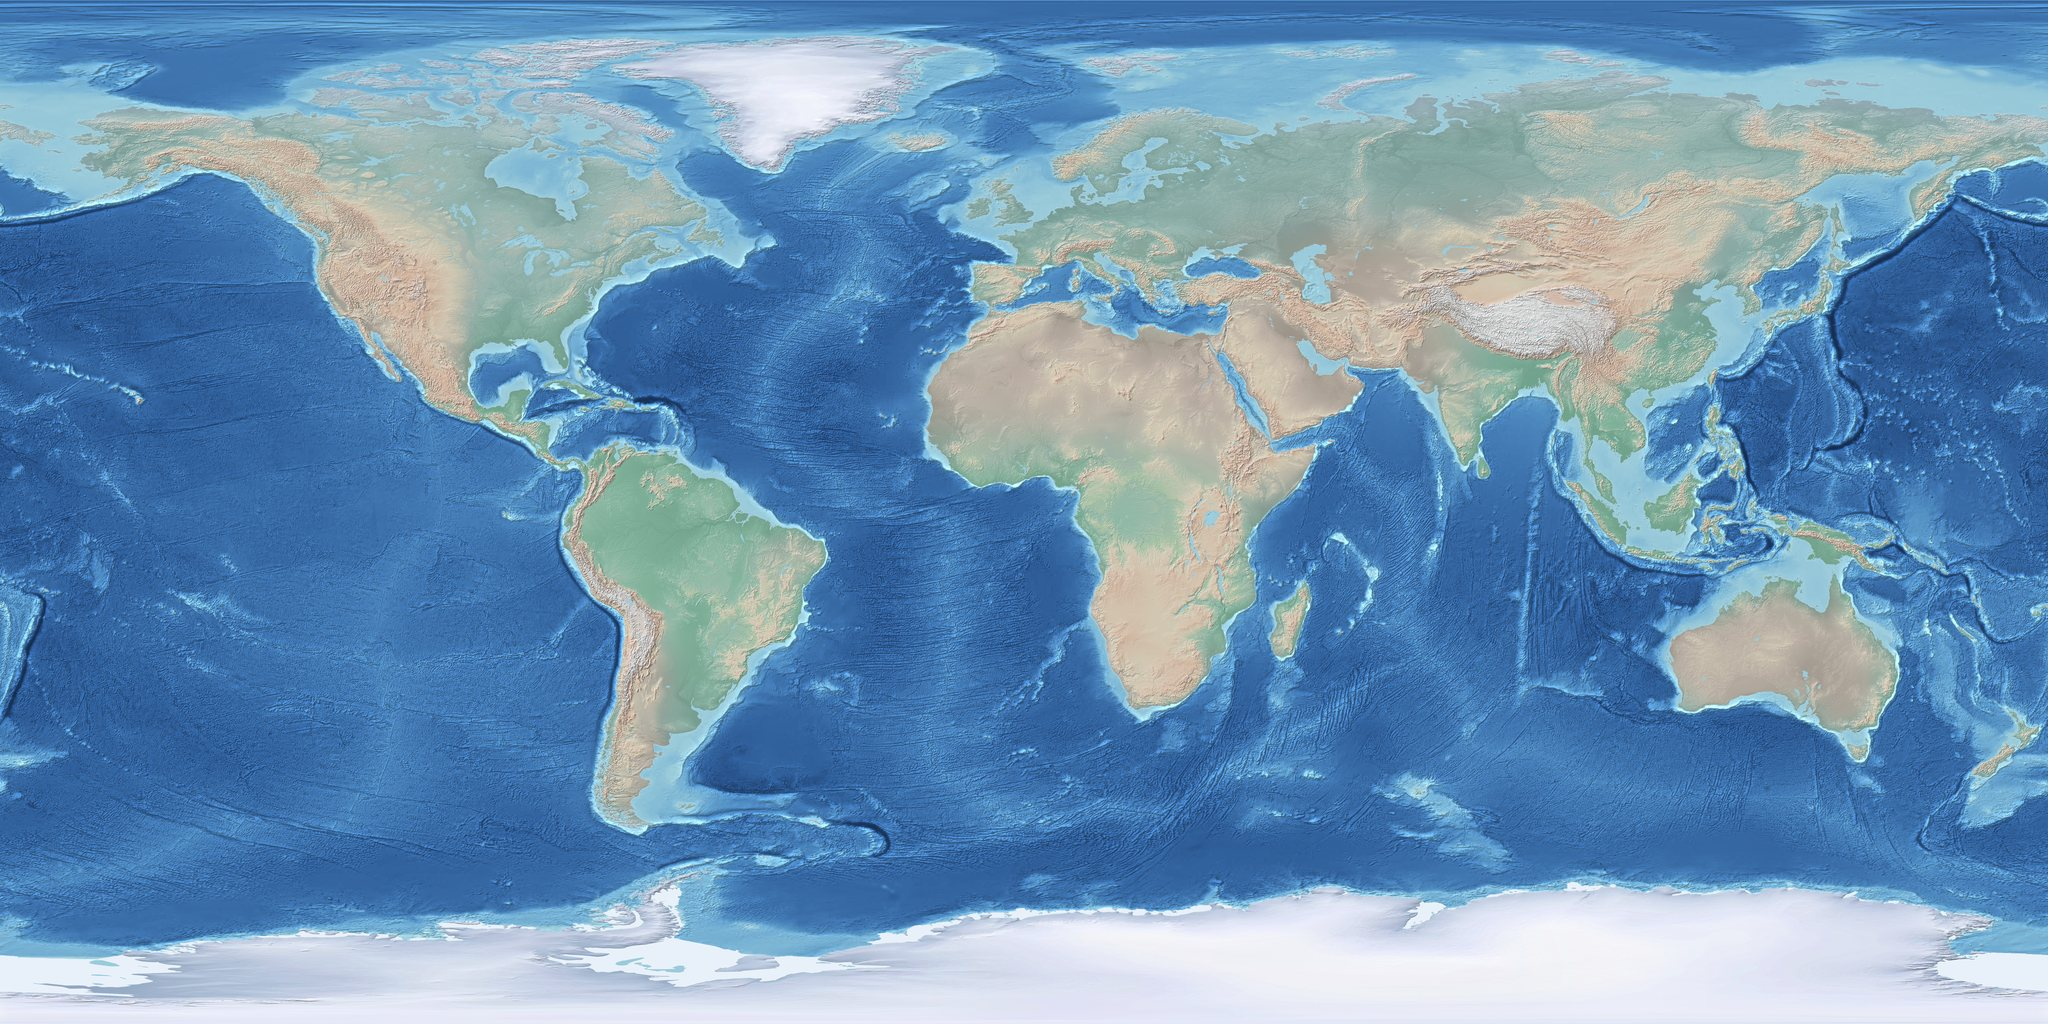
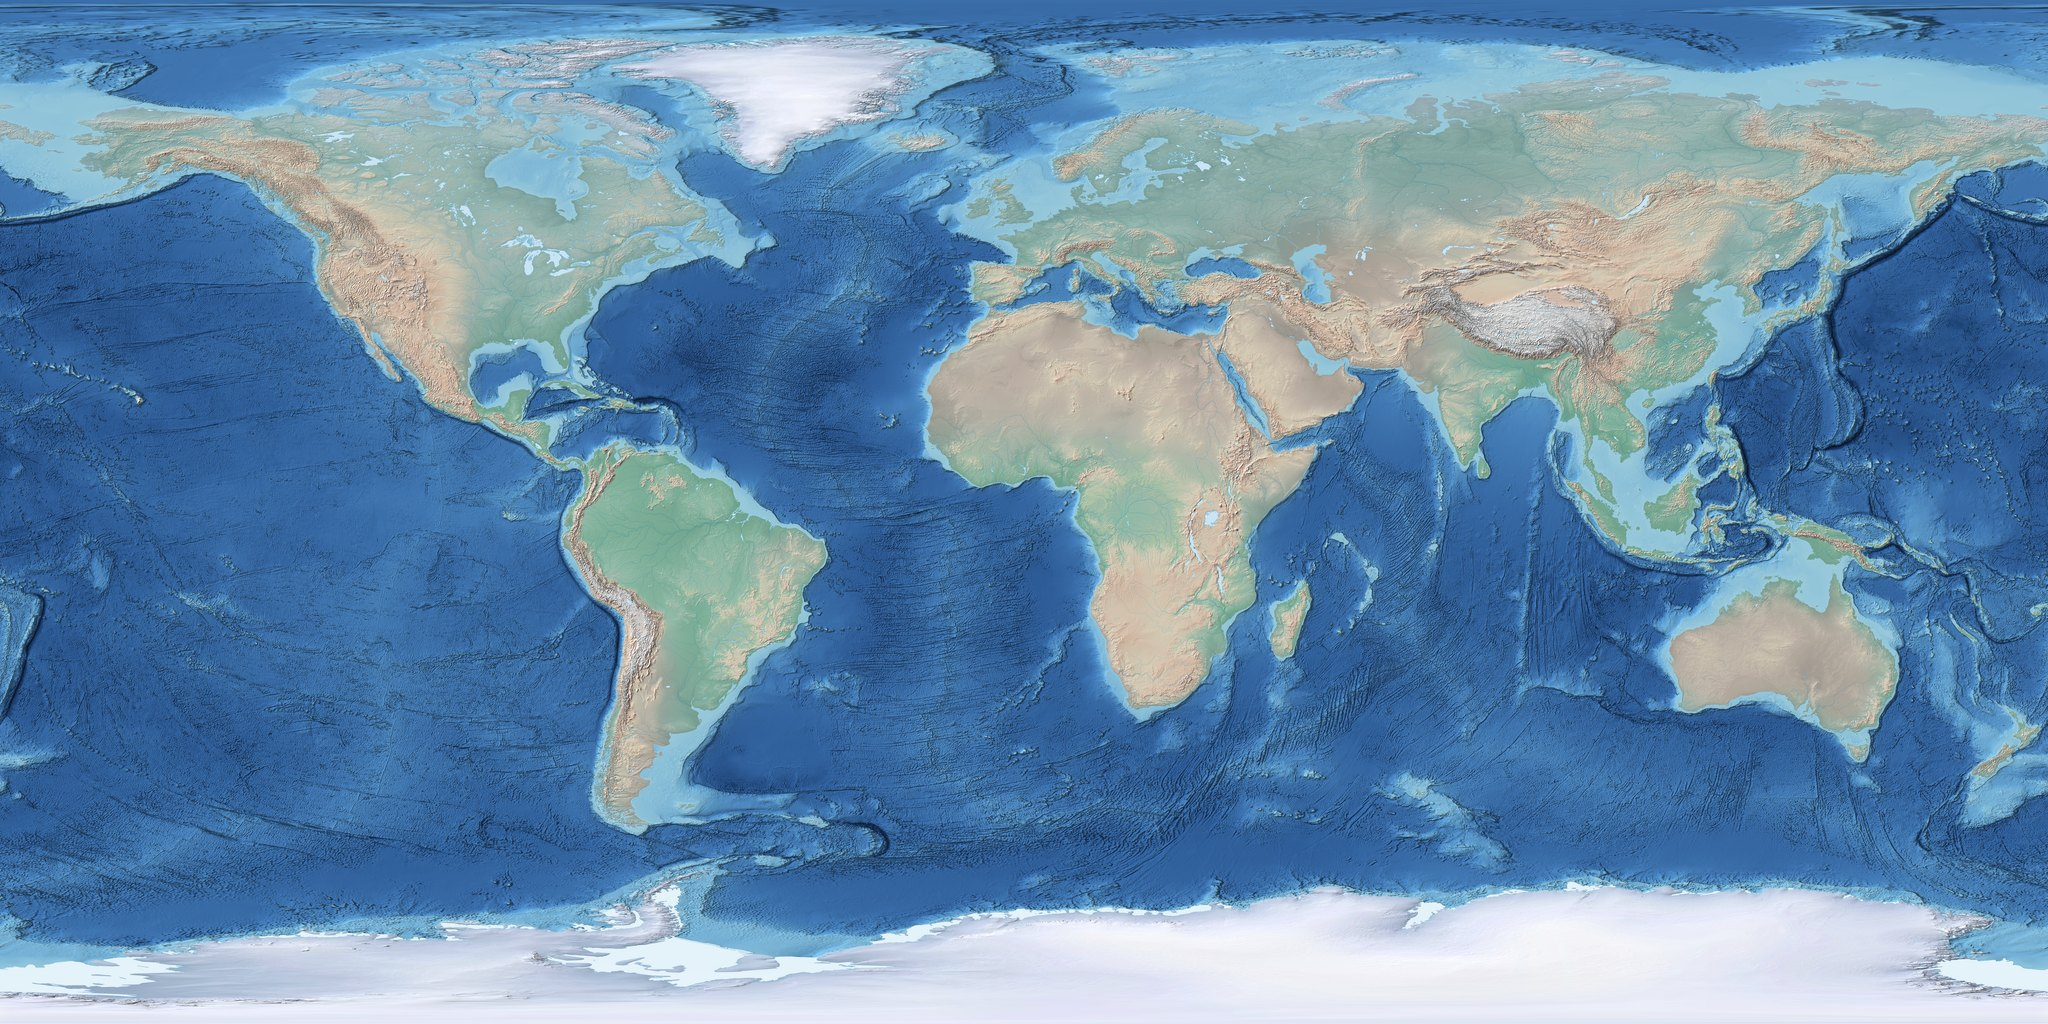
Sharper globe with elevation relief: 21k Natural Earth + ETOPO hill shading, detail tiles loaded for the zoomed-in area
Claude-Session: https://claude.ai/code/session_01TWkHodgwka5bRrv61NQpeQ

diff --git a/app/www/index.html b/app/www/index.html
@@ -1290,7 +1290,7 @@ const terrain = (() => {
   const VS = "#version 300 es\nin vec2 p;void main(){gl_Position=vec4(p,0.0,1.0);}";
   const FS = `#version 300 es
 precision highp float;
-uniform sampler2D tex; uniform float hgt; uniform vec2 ctr; uniform float rad; uniform vec2 rot; uniform float dark;
+uniform sampler2D tex; uniform sampler2D det; uniform vec4 drect; uniform float hgt; uniform vec2 ctr; uniform float rad; uniform vec2 rot; uniform float dark;
 out vec4 o;
 const float PI = 3.141592653589793;
 void main(){
@@ -1307,23 +1307,32 @@ void main(){
   vec2 gx = dFdx(uv), gy = dFdy(uv);
   gx.x -= floor(gx.x + 0.5); gy.x -= floor(gy.x + 0.5);
   vec3 c = textureGrad(tex, vec2(fract(uv.x), uv.y), gx, gy).rgb;
+  /* sharper detail block (a 2x2 set of 16k tiles around the view), blended in where it covers */
+  if (drect.z > 0.0){
+    vec2 du = vec2(fract(uv.x - drect.x), (uv.y - drect.y)) / drect.zw;
+    if (du.x < 1.0 && du.y >= 0.0 && du.y <= 1.0){
+      vec3 dc = textureGrad(det, du, gx / drect.zw, gy / drect.zw).rgb;
+      vec2 e = min(du, 1.0 - du);
+      c = mix(c, dc, smoothstep(0.0, 0.04, min(e.x, e.y)));
+    }
+  }
   c *= mix(0.72, 1.0, smoothstep(0.0, 0.6, X));
   if (dark > 0.5) c = pow(c, vec3(1.6)) * vec3(0.58, 0.63, 0.72);
   float a = clamp((1.0 - d) * rad + 0.5, 0.0, 1.0);
   o = vec4(c * a, a);
 }`;
   function sh(type, src){ const s = gl.createShader(type); gl.shaderSource(s, src); gl.compileShader(s); if (!gl.getShaderParameter(s, gl.COMPILE_STATUS)) throw new Error(gl.getShaderInfoLog(s)); return s; }
-  let prog, U = {}, tex, ready = false, dead = false, bigState = 0;
+  let prog, U = {}, tex, dtex, ready = false, dead = false, bigState = 0;
   try {
     prog = gl.createProgram();
     gl.attachShader(prog, sh(gl.VERTEX_SHADER, VS)); gl.attachShader(prog, sh(gl.FRAGMENT_SHADER, FS));
     gl.bindAttribLocation(prog, 0, "p"); gl.linkProgram(prog);
     if (!gl.getProgramParameter(prog, gl.LINK_STATUS)) throw new Error(gl.getProgramInfoLog(prog));
-    for (const n of ["tex", "hgt", "ctr", "rad", "rot", "dark"]) U[n] = gl.getUniformLocation(prog, n);
+    for (const n of ["tex", "det", "drect", "hgt", "ctr", "rad", "rot", "dark"]) U[n] = gl.getUniformLocation(prog, n);
     const buf = gl.createBuffer(); gl.bindBuffer(gl.ARRAY_BUFFER, buf);
     gl.bufferData(gl.ARRAY_BUFFER, new Float32Array([-1, -1, 3, -1, -1, 3]), gl.STATIC_DRAW);
     gl.enableVertexAttribArray(0); gl.vertexAttribPointer(0, 2, gl.FLOAT, false, 0, 0);
-    tex = gl.createTexture();
+    tex = gl.createTexture(); dtex = gl.createTexture();
   } catch (e) { return off; }
   const aniso = gl.getExtension("EXT_texture_filter_anisotropic");
   function upload(img){
@@ -1342,10 +1351,48 @@ void main(){
   const load = (src) => new Promise((res, rej) => { const im = new Image(); im.decoding = "async"; im.onload = () => res(im); im.onerror = rej; im.src = src; });
   const canBig = gl.getParameter(gl.MAX_TEXTURE_SIZE) >= 4096;
   load("earth-relief-2k.jpg").then((im) => { upload(im); bigState = Math.max(bigState, 1); api.wantBig(); }).catch(() => {});
+  /* detail tiles: the world at 16384 x 8192 in 8 x 4 tiles of 2048 px; four at a time cover 90 x 90 degrees */
+  const TILES = "https://noahbush42276-ship-it.github.io/dateline-atlas/relief-tiles/", TS = 2048;
+  let dKey = "", dWant = "", dRect = [0, 0, 0, 0], dBusy = false;
+  const tileImg = new Map();
+  const tile = (x, y) => {
+    const n = x + "_" + y;
+    if (!tileImg.has(n)){
+      if (tileImg.size > 12) tileImg.delete(tileImg.keys().next().value);
+      tileImg.set(n, new Promise((res, rej) => { const im = new Image(); im.crossOrigin = "anonymous"; im.decoding = "async"; im.onload = () => res(im); im.onerror = () => { tileImg.delete(n); rej(); }; im.src = TILES + n + ".jpg"; }));
+    }
+    return tileImg.get(n);
+  };
+  function wantDetail(){
+    if (!canBig || dead || !ready) return;
+    if (proj.scale() * DPR * 2 * Math.PI < 5200) return;      /* the 4k map still holds up */
+    const lon = -rot[0], lat = -rot[1];
+    const x0 = ((Math.floor((((lon + 180) % 360) + 360) % 360 / 45 - 0.5)) + 8) % 8;
+    const y0 = Math.max(0, Math.min(2, Math.floor((90 - lat) / 45 - 0.5)));
+    const key = x0 + "," + y0;
+    if (key === dKey || key === dWant || dBusy) return;
+    dWant = key; dBusy = true;
+    const xs = [x0, (x0 + 1) % 8], ys = [y0, y0 + 1];
+    Promise.all([tile(xs[0], ys[0]), tile(xs[1], ys[0]), tile(xs[0], ys[1]), tile(xs[1], ys[1])]).then((ims) => {
+      if (dead) return;
+      gl.bindTexture(gl.TEXTURE_2D, dtex);
+      gl.pixelStorei(gl.UNPACK_FLIP_Y_WEBGL, false);
+      if (!dKey) gl.texImage2D(gl.TEXTURE_2D, 0, gl.RGB, TS * 2, TS * 2, 0, gl.RGB, gl.UNSIGNED_BYTE, null);
+      ims.forEach((im, i) => gl.texSubImage2D(gl.TEXTURE_2D, 0, (i % 2) * TS, (i >> 1) * TS, gl.RGB, gl.UNSIGNED_BYTE, im));
+      gl.generateMipmap(gl.TEXTURE_2D);
+      gl.texParameteri(gl.TEXTURE_2D, gl.TEXTURE_MIN_FILTER, gl.LINEAR_MIPMAP_LINEAR);
+      gl.texParameteri(gl.TEXTURE_2D, gl.TEXTURE_MAG_FILTER, gl.LINEAR);
+      gl.texParameteri(gl.TEXTURE_2D, gl.TEXTURE_WRAP_S, gl.CLAMP_TO_EDGE);
+      gl.texParameteri(gl.TEXTURE_2D, gl.TEXTURE_WRAP_T, gl.CLAMP_TO_EDGE);
+      if (aniso) gl.texParameterf(gl.TEXTURE_2D, aniso.TEXTURE_MAX_ANISOTROPY_EXT, Math.min(8, gl.getParameter(aniso.MAX_TEXTURE_MAX_ANISOTROPY_EXT)));
+      dKey = key; dRect = [x0 / 8, y0 / 4, 0.25, 0.5]; needs = true;
+    }).catch(() => {}).finally(() => { dBusy = false; dWant = ""; });
+  }
   cv.addEventListener("webglcontextlost", (e) => { e.preventDefault(); dead = true; ready = false; needs = true; });
   /* the 4k texture (2 MB) loads only once the globe is big enough on screen to use it */
   const api = {
     ready: () => ready && !dead,
+    sharp: () => !!dKey && !dead,
     resize(){ cv.width = Math.round(W * DPR); cv.height = Math.round(H * DPR); },
     wantBig(){
       if (!canBig || bigState !== 1 || dead) return;
@@ -1358,6 +1405,7 @@ void main(){
       gl.viewport(0, 0, cv.width, cv.height);
       gl.clearColor(0, 0, 0, 0); gl.clear(gl.COLOR_BUFFER_BIT);
       if (!ready || !(alpha > 0)) return;
+      wantDetail();
       const [tx, ty] = proj.translate();
       gl.useProgram(prog);
       gl.uniform1i(U.tex, 0); gl.activeTexture(gl.TEXTURE0); gl.bindTexture(gl.TEXTURE_2D, tex);
@@ -1366,6 +1414,9 @@ void main(){
       gl.uniform1f(U.rad, proj.scale() * DPR);
       gl.uniform2f(U.rot, rot[0] * Math.PI / 180, rot[1] * Math.PI / 180);
       gl.uniform1f(U.dark, C.dark ? 1 : 0);
+      gl.uniform1i(U.det, 1); gl.activeTexture(gl.TEXTURE1); gl.bindTexture(gl.TEXTURE_2D, dtex);
+      gl.uniform4f(U.drect, dKey ? dRect[0] : 0, dRect[1], dKey ? dRect[2] : 0, dRect[3]);
+      gl.activeTexture(gl.TEXTURE0);
       gl.drawArrays(gl.TRIANGLES, 0, 3);
     }
   };
@@ -1462,7 +1513,7 @@ function draw(ts){
   g.addColorStop(0, C.halo); g.addColorStop(1, "rgba(0,0,0,0)");
   ctx.fillStyle = g; ctx.beginPath(); ctx.arc(cx, cy, r * 1.14, 0, 2 * Math.PI); ctx.fill();
   /* relief texture while zoomed out, cross-fading to the crisp vector map once the texture would turn soft */
-  const tA = terrain.ready() ? Math.max(0, Math.min(1, (11.5 - k) / 3.8)) : 0;
+  const tA = terrain.ready() ? (terrain.sharp() ? Math.max(0, Math.min(1, (30 - k) / 8)) : Math.max(0, Math.min(1, (11.5 - k) / 3.8))) : 0;
   terrain.render(tA);
   const sf = selectedFeature();
   if (tA < 1){
@@ -1793,7 +1844,7 @@ function methodBlock(){
       h("dt", {text:"Loaded language (0–3)"}), h("dd", {text:"The outlet's own wording in its headline, not quotes it attributes to others. 0 is neutral wire language; 3 is an openly partisan label."}),
       h("dt", {text:"Ownership"}), h("dd", {text:"State: run or funded by a government. Public: public-service or nonprofit broadcaster. Commercial: privately owned. Independent: reader-funded or working in exile."}),
       h("dt", {text:"Translation and limits"}), h("dd", {text:"Stories are found in the GDELT Project's open index of world news coverage. An AI model (Gemma, running on the publisher's computer) groups the reports, translates the headlines and makes these assessments. The outlet, country and owner counts behind the reliability score are counted by code. These are judgments, not verdicts, and they can be wrong; each report links to the original. National and international stories drop off 30 days after the event date, company and AI news after 14, local and regional stories after 7."}),
-      h("dt", {text:"Map data"}), h("dd", {text:"Land relief and vegetation tints from Natural Earth's shaded relief. Ocean depth from NOAA's ETOPO global relief model, with seafloor ridges and trenches from NOAA ETOPO1. Coastlines, lakes and borders from Natural Earth 1:50m."})
+      h("dt", {text:"Map data"}), h("dd", {text:"Land relief and vegetation tints from Natural Earth's high-resolution shaded relief, with hill shading from NOAA's ETOPO 2022 elevation model (heights exaggerated so ranges stand out). Ocean depth from NOAA's ETOPO global relief model, with seafloor ridges and trenches from NOAA ETOPO1. Coastlines, lakes and borders from Natural Earth 1:50m."})
     ));
 }
 function renderDetail(e){

diff --git a/index.html b/index.html
@@ -758,7 +758,7 @@ const terrain = (() => {
   const VS = "#version 300 es\nin vec2 p;void main(){gl_Position=vec4(p,0.0,1.0);}";
   const FS = `#version 300 es
 precision highp float;
-uniform sampler2D tex; uniform float hgt; uniform vec2 ctr; uniform float rad; uniform vec2 rot; uniform float dark;
+uniform sampler2D tex; uniform sampler2D det; uniform vec4 drect; uniform float hgt; uniform vec2 ctr; uniform float rad; uniform vec2 rot; uniform float dark;
 out vec4 o;
 const float PI = 3.141592653589793;
 void main(){
@@ -775,23 +775,32 @@ void main(){
   vec2 gx = dFdx(uv), gy = dFdy(uv);
   gx.x -= floor(gx.x + 0.5); gy.x -= floor(gy.x + 0.5);
   vec3 c = textureGrad(tex, vec2(fract(uv.x), uv.y), gx, gy).rgb;
+  /* sharper detail block (a 2x2 set of 16k tiles around the view), blended in where it covers */
+  if (drect.z > 0.0){
+    vec2 du = vec2(fract(uv.x - drect.x), (uv.y - drect.y)) / drect.zw;
+    if (du.x < 1.0 && du.y >= 0.0 && du.y <= 1.0){
+      vec3 dc = textureGrad(det, du, gx / drect.zw, gy / drect.zw).rgb;
+      vec2 e = min(du, 1.0 - du);
+      c = mix(c, dc, smoothstep(0.0, 0.04, min(e.x, e.y)));
+    }
+  }
   c *= mix(0.72, 1.0, smoothstep(0.0, 0.6, X));
   if (dark > 0.5) c = pow(c, vec3(1.6)) * vec3(0.58, 0.63, 0.72);
   float a = clamp((1.0 - d) * rad + 0.5, 0.0, 1.0);
   o = vec4(c * a, a);
 }`;
   function sh(type, src){ const s = gl.createShader(type); gl.shaderSource(s, src); gl.compileShader(s); if (!gl.getShaderParameter(s, gl.COMPILE_STATUS)) throw new Error(gl.getShaderInfoLog(s)); return s; }
-  let prog, U = {}, tex, ready = false, dead = false, bigState = 0;
+  let prog, U = {}, tex, dtex, ready = false, dead = false, bigState = 0;
   try {
     prog = gl.createProgram();
     gl.attachShader(prog, sh(gl.VERTEX_SHADER, VS)); gl.attachShader(prog, sh(gl.FRAGMENT_SHADER, FS));
     gl.bindAttribLocation(prog, 0, "p"); gl.linkProgram(prog);
     if (!gl.getProgramParameter(prog, gl.LINK_STATUS)) throw new Error(gl.getProgramInfoLog(prog));
-    for (const n of ["tex", "hgt", "ctr", "rad", "rot", "dark"]) U[n] = gl.getUniformLocation(prog, n);
+    for (const n of ["tex", "det", "drect", "hgt", "ctr", "rad", "rot", "dark"]) U[n] = gl.getUniformLocation(prog, n);
     const buf = gl.createBuffer(); gl.bindBuffer(gl.ARRAY_BUFFER, buf);
     gl.bufferData(gl.ARRAY_BUFFER, new Float32Array([-1, -1, 3, -1, -1, 3]), gl.STATIC_DRAW);
     gl.enableVertexAttribArray(0); gl.vertexAttribPointer(0, 2, gl.FLOAT, false, 0, 0);
-    tex = gl.createTexture();
+    tex = gl.createTexture(); dtex = gl.createTexture();
   } catch (e) { return off; }
   const aniso = gl.getExtension("EXT_texture_filter_anisotropic");
   function upload(img){
@@ -810,10 +819,48 @@ void main(){
   const load = (src) => new Promise((res, rej) => { const im = new Image(); im.decoding = "async"; im.onload = () => res(im); im.onerror = rej; im.src = src; });
   const canBig = gl.getParameter(gl.MAX_TEXTURE_SIZE) >= 4096;
   load("earth-relief-2k.jpg").then((im) => { upload(im); bigState = Math.max(bigState, 1); api.wantBig(); }).catch(() => {});
+  /* detail tiles: the world at 16384 x 8192 in 8 x 4 tiles of 2048 px; four at a time cover 90 x 90 degrees */
+  const TILES = "relief-tiles/", TS = 2048;
+  let dKey = "", dWant = "", dRect = [0, 0, 0, 0], dBusy = false;
+  const tileImg = new Map();
+  const tile = (x, y) => {
+    const n = x + "_" + y;
+    if (!tileImg.has(n)){
+      if (tileImg.size > 12) tileImg.delete(tileImg.keys().next().value);
+      tileImg.set(n, new Promise((res, rej) => { const im = new Image(); im.crossOrigin = "anonymous"; im.decoding = "async"; im.onload = () => res(im); im.onerror = () => { tileImg.delete(n); rej(); }; im.src = TILES + n + ".jpg"; }));
+    }
+    return tileImg.get(n);
+  };
+  function wantDetail(){
+    if (!canBig || dead || !ready) return;
+    if (proj.scale() * DPR * 2 * Math.PI < 5200) return;      /* the 4k map still holds up */
+    const lon = -rot[0], lat = -rot[1];
+    const x0 = ((Math.floor((((lon + 180) % 360) + 360) % 360 / 45 - 0.5)) + 8) % 8;
+    const y0 = Math.max(0, Math.min(2, Math.floor((90 - lat) / 45 - 0.5)));
+    const key = x0 + "," + y0;
+    if (key === dKey || key === dWant || dBusy) return;
+    dWant = key; dBusy = true;
+    const xs = [x0, (x0 + 1) % 8], ys = [y0, y0 + 1];
+    Promise.all([tile(xs[0], ys[0]), tile(xs[1], ys[0]), tile(xs[0], ys[1]), tile(xs[1], ys[1])]).then((ims) => {
+      if (dead) return;
+      gl.bindTexture(gl.TEXTURE_2D, dtex);
+      gl.pixelStorei(gl.UNPACK_FLIP_Y_WEBGL, false);
+      if (!dKey) gl.texImage2D(gl.TEXTURE_2D, 0, gl.RGB, TS * 2, TS * 2, 0, gl.RGB, gl.UNSIGNED_BYTE, null);
+      ims.forEach((im, i) => gl.texSubImage2D(gl.TEXTURE_2D, 0, (i % 2) * TS, (i >> 1) * TS, gl.RGB, gl.UNSIGNED_BYTE, im));
+      gl.generateMipmap(gl.TEXTURE_2D);
+      gl.texParameteri(gl.TEXTURE_2D, gl.TEXTURE_MIN_FILTER, gl.LINEAR_MIPMAP_LINEAR);
+      gl.texParameteri(gl.TEXTURE_2D, gl.TEXTURE_MAG_FILTER, gl.LINEAR);
+      gl.texParameteri(gl.TEXTURE_2D, gl.TEXTURE_WRAP_S, gl.CLAMP_TO_EDGE);
+      gl.texParameteri(gl.TEXTURE_2D, gl.TEXTURE_WRAP_T, gl.CLAMP_TO_EDGE);
+      if (aniso) gl.texParameterf(gl.TEXTURE_2D, aniso.TEXTURE_MAX_ANISOTROPY_EXT, Math.min(8, gl.getParameter(aniso.MAX_TEXTURE_MAX_ANISOTROPY_EXT)));
+      dKey = key; dRect = [x0 / 8, y0 / 4, 0.25, 0.5]; needs = true;
+    }).catch(() => {}).finally(() => { dBusy = false; dWant = ""; });
+  }
   cv.addEventListener("webglcontextlost", (e) => { e.preventDefault(); dead = true; ready = false; needs = true; });
   /* the 4k texture (2 MB) loads only once the globe is big enough on screen to use it */
   const api = {
     ready: () => ready && !dead,
+    sharp: () => !!dKey && !dead,
     resize(){ cv.width = Math.round(W * DPR); cv.height = Math.round(H * DPR); },
     wantBig(){
       if (!canBig || bigState !== 1 || dead) return;
@@ -826,6 +873,7 @@ void main(){
       gl.viewport(0, 0, cv.width, cv.height);
       gl.clearColor(0, 0, 0, 0); gl.clear(gl.COLOR_BUFFER_BIT);
       if (!ready || !(alpha > 0)) return;
+      wantDetail();
       const [tx, ty] = proj.translate();
       gl.useProgram(prog);
       gl.uniform1i(U.tex, 0); gl.activeTexture(gl.TEXTURE0); gl.bindTexture(gl.TEXTURE_2D, tex);
@@ -834,6 +882,9 @@ void main(){
       gl.uniform1f(U.rad, proj.scale() * DPR);
       gl.uniform2f(U.rot, rot[0] * Math.PI / 180, rot[1] * Math.PI / 180);
       gl.uniform1f(U.dark, C.dark ? 1 : 0);
+      gl.uniform1i(U.det, 1); gl.activeTexture(gl.TEXTURE1); gl.bindTexture(gl.TEXTURE_2D, dtex);
+      gl.uniform4f(U.drect, dKey ? dRect[0] : 0, dRect[1], dKey ? dRect[2] : 0, dRect[3]);
+      gl.activeTexture(gl.TEXTURE0);
       gl.drawArrays(gl.TRIANGLES, 0, 3);
     }
   };
@@ -853,7 +904,7 @@ function draw(ts){
   g.addColorStop(0, C.halo); g.addColorStop(1, "rgba(0,0,0,0)");
   ctx.fillStyle = g; ctx.beginPath(); ctx.arc(cx, cy, r * 1.14, 0, 2 * Math.PI); ctx.fill();
   /* relief texture while zoomed out, cross-fading to the crisp vector map once the texture would turn soft */
-  const tA = terrain.ready() ? Math.max(0, Math.min(1, (11.5 - k) / 3.8)) : 0;
+  const tA = terrain.ready() ? (terrain.sharp() ? Math.max(0, Math.min(1, (30 - k) / 8)) : Math.max(0, Math.min(1, (11.5 - k) / 3.8))) : 0;
   terrain.render(tA);
   const sf = selectedFeature();
   if (tA < 1){
@@ -1167,7 +1218,7 @@ function methodBlock(){
       h("dt", {text:"Loaded language (0–3)"}), h("dd", {text:"The outlet's own wording in its headline, not quotes it attributes to others. 0 is neutral wire language; 3 is an openly partisan label."}),
       h("dt", {text:"Ownership"}), h("dd", {text:"State: run or funded by a government. Public: public-service or nonprofit broadcaster. Commercial: privately owned. Independent: reader-funded or working in exile."}),
       h("dt", {text:"Translation and limits"}), h("dd", {text:"An AI model translates the headlines and makes these assessments: Claude, or EMA (Gemma, a local model) when the sweep runs on Noah's PC; Sources says which ran the latest sweep. The outlet, country and owner counts behind the reliability score are counted by code. These are judgments, not verdicts, and they can be wrong; each report links to the original. National and international stories drop off 30 days after the event date, company and AI news after 14, local and regional stories after 7."}),
-      h("dt", {text:"Map data"}), h("dd", {text:"Land relief and vegetation tints from Natural Earth's shaded relief. Ocean depth from NOAA's ETOPO global relief model, with seafloor ridges and trenches from NOAA ETOPO1. Coastlines, lakes and borders from Natural Earth 1:50m."})
+      h("dt", {text:"Map data"}), h("dd", {text:"Land relief and vegetation tints from Natural Earth's high-resolution shaded relief, with hill shading from NOAA's ETOPO 2022 elevation model (heights exaggerated so ranges stand out). Ocean depth from NOAA's ETOPO global relief model, with seafloor ridges and trenches from NOAA ETOPO1. Coastlines, lakes and borders from Natural Earth 1:50m."})
     ));
 }
 function renderDetail(e){

diff --git a/sw.js b/sw.js
@@ -1,7 +1,7 @@
 /* Dateline Atlas service worker: keeps the app usable offline and the news feed fresh.
    App files: served from cache, refreshed in the background (new versions show on next launch).
    News feed: network first, falling back to the last saved sweep when offline. */
-const SHELL_CACHE = "atlas-shell-v2";
+const SHELL_CACHE = "atlas-shell-v3";
 const DATA_CACHE = "atlas-data";
 const FONT_CACHE = "atlas-fonts";
 const SHELL = [
